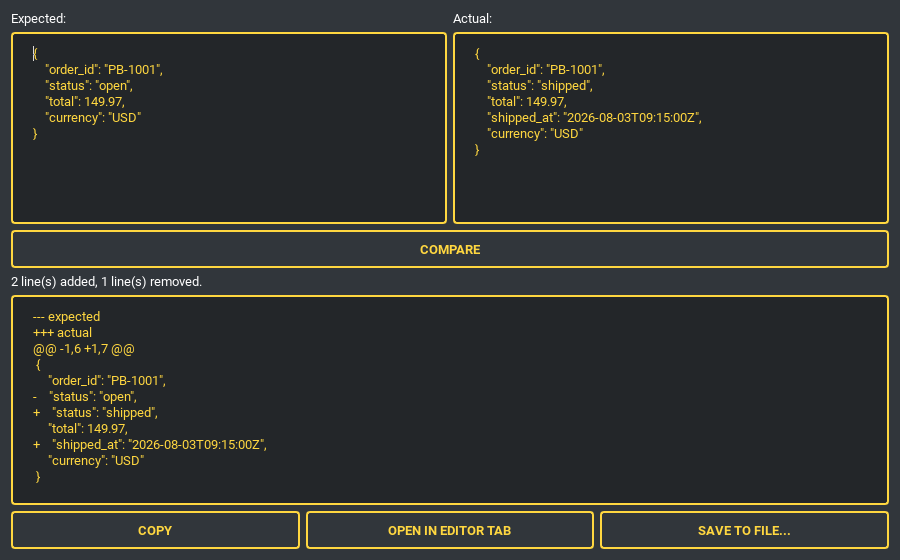
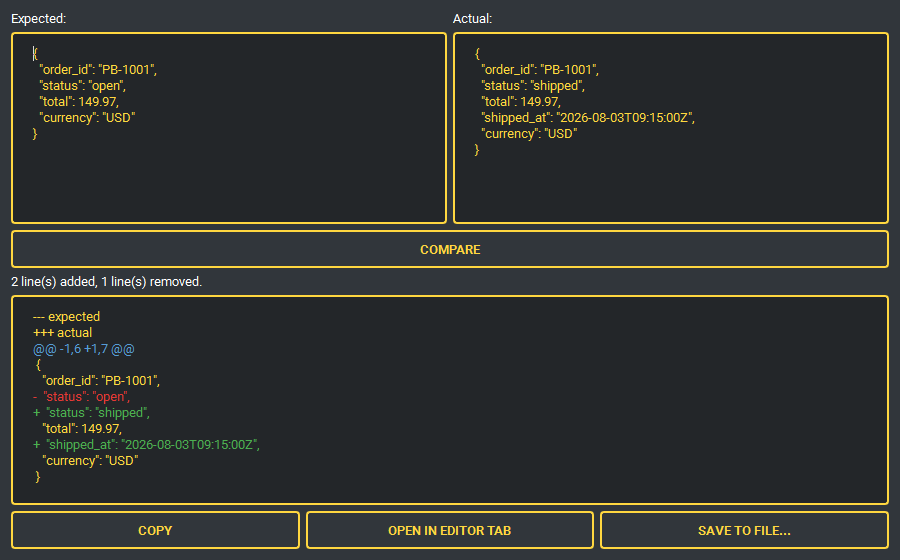
Colour the diff tool's added and removed lines

diff --git a/pybreeze/pybreeze_ui/tools_gui/diff_gui.py b/pybreeze/pybreeze_ui/tools_gui/diff_gui.py
@@ -2,15 +2,51 @@
 from __future__ import annotations
 
 from PySide6.QtCore import QThread, Signal
+from PySide6.QtGui import QSyntaxHighlighter, QTextCharFormat
 from PySide6.QtWidgets import (
     QHBoxLayout, QLabel, QPushButton, QTextEdit, QVBoxLayout, QWidget
 )
 from je_editor import language_wrapper
+from je_editor.pyside_ui.main_ui.save_settings.user_color_setting_file import actually_color_dict
 
 from pybreeze.pybreeze_ui.exact_text import exact_text
 from pybreeze.pybreeze_ui.tools_gui.output_actions import OutputActions
 from pybreeze.pybreeze_ui.thread_keeper import let_run_out
 from pybreeze.utils.diff_tools.text_diff import Comparison, DiffSummary, compare_texts
+
+# A unified diff line's first characters -> JEditor theme colour (a dark and a
+# light set, which the Style menu switches between); the first match counts
+_LINE_COLOURS = (
+    ("@@", "syntax_keyword_color"),
+    ("+", "diff_added_marker_color"),
+    ("-", "diff_removed_marker_color"),
+    ("\\", "blame_annotation_color"),  # "\ No newline at end of file"
+)
+# The "--- expected" and "+++ actual" lines a diff starts with
+_HEADER_LINES = 2
+
+
+def diff_line_colour(line: str, line_number: int) -> str | None:
+    """The theme colour key *line* of a unified diff is shown in, or ``None`` for the view's own.
+
+    Only the first two lines are the header: a removed line reading ``--x``
+    also starts with ``---``.
+    """
+    if line_number < _HEADER_LINES and line.startswith(("--- ", "+++ ")):
+        return None
+    return next((key for prefix, key in _LINE_COLOURS if line.startswith(prefix)), None)
+
+
+class UnifiedDiffHighlighter(QSyntaxHighlighter):
+    """Colours a unified diff's added, removed and hunk lines, in the theme's colours."""
+
+    def highlightBlock(self, text: str) -> None:
+        key = diff_line_colour(text, self.currentBlock().blockNumber())
+        colour = actually_color_dict.get(key) if key is not None else None
+        if colour is not None:
+            text_format = QTextCharFormat()
+            text_format.setForeground(colour)
+            self.setFormat(0, len(text), text_format)
 
 
 def build_summary_line(summary: DiffSummary) -> str:
@@ -72,6 +108,7 @@ class DiffGUI(QWidget):
         self.summary_label = QLabel("")
         self.output_edit = QTextEdit()
         self.output_edit.setReadOnly(True)
+        self._highlighter = UnifiedDiffHighlighter(self.output_edit.document())
 
         self.actions = OutputActions(
             self, self.output_edit, main_window=main_window,

diff --git a/test/test_utils/test_diff_gui.py b/test/test_utils/test_diff_gui.py
@@ -114,3 +114,40 @@ class TestALargeComparison:
         release.set()
         _compare(widget, start=False)
         assert "+b" in widget.output_edit.toPlainText()
+
+
+class TestTheColours:
+    @pytest.mark.parametrize(("line", "number", "key"), [
+        ("--- expected", 0, None),
+        ("+++ actual", 1, None),
+        ("@@ -1,2 +1,2 @@", 2, "syntax_keyword_color"),
+        ("+added", 5, "diff_added_marker_color"),
+        ("-removed", 5, "diff_removed_marker_color"),
+        ("---x", 7, "diff_removed_marker_color"),  # a removed "--x", not a header
+        ("+++x", 7, "diff_added_marker_color"),
+        (" unchanged", 5, None),
+        ("\\ No newline at end of file", 6, "blame_annotation_color"),
+        ("", 5, None),
+    ])
+    def test_each_kind_of_line_has_its_theme_colour(self, line, number, key):
+        from pybreeze.pybreeze_ui.tools_gui.diff_gui import diff_line_colour
+
+        assert diff_line_colour(line, number) == key
+
+    def test_the_diff_is_shown_in_colour(self, widget):
+        # It was all one colour: added and removed lines had to be read by their sign
+        from je_editor.pyside_ui.main_ui.save_settings.user_color_setting_file import actually_color_dict
+
+        widget.left_edit.setPlainText("a\nb")
+        widget.right_edit.setPlainText("a\nc")
+        _compare(widget)
+
+        colours = {}
+        block = widget.output_edit.document().begin()
+        while block.isValid():
+            ranges = block.layout().formats()
+            colours[block.text()] = ranges[0].format.foreground().color() if ranges else None
+            block = block.next()
+        assert colours["-b"] == actually_color_dict["diff_removed_marker_color"]
+        assert colours["+c"] == actually_color_dict["diff_added_marker_color"]
+        assert colours[" a"] is None

diff --git a/test/test_utils/test_jeditor_contract.py b/test/test_utils/test_jeditor_contract.py
@@ -43,7 +43,7 @@ INTERNAL = [
     ("je_editor.utils.encodings.text_codec", "LINE_ENDING_LF",
      "menu/plugin_menu/build_run_with_menu.py"),
     ("je_editor.pyside_ui.main_ui.save_settings.user_color_setting_file", "actually_color_dict",
-     "show_code_window/code_window.py, auto_control_menu/build_autocontrol_menu.py"),
+     "show_code_window/code_window.py, auto_control_menu/build_autocontrol_menu.py, tools_gui/diff_gui.py"),
 ]
 
 # Names PyBreeze imports from je_editor's top level, i.e. from its __all__.
@@ -113,6 +113,9 @@ class TestTheShapesPyBreezeCalls:
             "je_editor.pyside_ui.main_ui.save_settings.user_color_setting_file",
             "actually_color_dict")
         assert {"normal_output_color", "error_output_color"} <= set(colours)
+        # The diff tool's line colours
+        assert {"diff_added_marker_color", "diff_removed_marker_color", "syntax_keyword_color",
+                "blame_annotation_color"} <= set(colours)
 
     def test_a_keyword_colour_can_be_a_theme_colour_key(self):
         # syntax_extend registers keys, not colours, so keywords follow the theme

diff --git a/docs/updates/2026-09-b.md b/docs/updates/2026-09-b.md
@@ -869,3 +869,14 @@ Continues [2026-09.md](2026-09.md), which passed the batch size limit. Index and
 - **Docs**: `architecture.md` §6 (the reliance on JEditor), `architecture_explore.md` (§11, test count).
 - **Files**: `pybreeze/pybreeze_ui/syntax/syntax_extend.py`, `test/test_utils/test_syntax_extend.py`, `test/test_utils/test_jeditor_contract.py`, `architecture.md`, `architecture_explore.md`
 - **Open items**: none.
+
+## U-20260924-296 · 2026-09-24 · The diff tool shows its diff in colour · #feature #ui
+
+- **What**: the Text Diff tab printed its unified diff in one colour; added and removed lines could be told apart only by their first character. Seen on the dark_amber contact sheet of all 20 tool tabs (the rest read fine under the theme).
+- **Change**: `diff_gui.UnifiedDiffHighlighter` (a `QSyntaxHighlighter` on the output) colours a line by its start: `@@` hunks `syntax_keyword_color`, `+` `diff_added_marker_color`, `-` `diff_removed_marker_color`, the `\ No newline at end of file` note `blame_annotation_color`, all JEditor theme colours with a dark and a light set (`actually_color_dict`, already used by the run window). `diff_line_colour(line, number)` decides; the `--- expected` / `+++ actual` header is only the first two lines, since a removed `--x` also starts with `---`. Copy and Save still take the plain text. Highlighting an 18,000-line diff adds 0.14 s to showing it.
+- **Check**: rendered on dark_amber and light_blue: readable on both.
+- **Tests**: `test_diff_gui.py` +11 (each kind of line, including `---x` and `+++x` past the header; the widget shows `-b` and `+c` in the removed and added colours and context in none), `test_jeditor_contract.py` (the four colour keys are in `actually_color_dict`; `diff_gui.py` listed as a user).
+- **Result / numbers**: 2386 tests in 130 files. The diff and contract tests (57) pass. `ruff check` clean.
+- **Docs**: the three READMEs' Text Diff section and its screenshot `images/tool_diff.png` (same sample and size, now in colour), `architecture.md` §6 (`actually_color_dict` users), `architecture_explore.md` (diff tool, test count).
+- **Files**: `pybreeze/pybreeze_ui/tools_gui/diff_gui.py`, `test/test_utils/test_diff_gui.py`, `test/test_utils/test_jeditor_contract.py`, `images/tool_diff.png`, `README.md`, `README/README_zh-TW.md`, `README/README_zh-CN.md`, `architecture.md`, `architecture_explore.md`
+- **Open items**: none.

diff --git a/architecture.md b/architecture.md
@@ -143,7 +143,7 @@ Run with… / Plugins menu (menu/plugin_menu/) → get_all_plugin_run_configs()
   | `choose_file_get_save_file_path` | `pyside_ui.dialog.file_dialog.save_file_dialog` | `menu/plugin_menu/build_run_with_menu.py` |
   | `write_file_with_encoding` | `utils.file.save.save_file` | `menu/plugin_menu/build_run_with_menu.py` |
   | `DEFAULT_ENCODING`, `LINE_ENDING_LF` | `utils.encodings.text_codec` | `menu/plugin_menu/build_run_with_menu.py` |
-  | `actually_color_dict` | `pyside_ui.main_ui.save_settings.user_color_setting_file` | `show_code_window/code_window.py`, `automation_menu/auto_control_menu/build_autocontrol_menu.py` |
+  | `actually_color_dict` | `pyside_ui.main_ui.save_settings.user_color_setting_file` | `show_code_window/code_window.py`, `automation_menu/auto_control_menu/build_autocontrol_menu.py`, `tools_gui/diff_gui.py` (the diff's line colours: `diff_added_marker_color`, `diff_removed_marker_color`, `syntax_keyword_color`, `blame_annotation_color`) |
 
   PyBreeze also relies on `EditorWidget`'s `current_file`, `code_edit`, `file_encoding`,
   `line_ending`, `mark_ignore_next_file_change()` and `mark_saved()`, on its private `_file_watcher`,

diff --git a/docs/updates/README.md b/docs/updates/README.md
@@ -58,6 +58,7 @@ In the same commit: delete the item from `progress.md`, add a `#done` entry here
 
 | ID | Date | Title | Tags | Batch |
 |---|---|---|---|---|
+| U-20260924-296 | 2026-09-24 | The diff tool shows its diff in colour | #feature #ui | [2026-09-b](2026-09-b.md) |
 | U-20260924-295 | 2026-09-24 | Automation keywords readable on a light theme | #fix #ui #jeditor | [2026-09-b](2026-09-b.md) |
 | U-20260924-294 | 2026-09-24 | The terminal font holds under the IDE's theme | #fix #ssh #ui | [2026-09-b](2026-09-b.md) |
 | U-20260924-293 | 2026-09-24 | Terminal colours readable on a dark and on a light theme | #fix #ssh #ui | [2026-09-b](2026-09-b.md) |
@@ -377,4 +378,4 @@ In the same commit: delete the item from `progress.md`, add a `#done` entry here
 | File | Period | Entries |
 |---|---|---:|
 | [2026-09.md](2026-09.md) | 2026-09 | 218 |
-| [2026-09-b.md](2026-09-b.md) | 2026-09 | 93 |
+| [2026-09-b.md](2026-09-b.md) | 2026-09 | 94 |

diff --git a/README.md b/README.md
@@ -117,7 +117,7 @@ Reports names sent more than once, `Set-Cookie` entries missing `Secure` / `Http
 
 ![Text Diff](images/tool_diff.png)
 
-Compare two payloads — an expected vs. actual API response, say — and get a unified diff plus a one-line added/removed summary.
+Compare two payloads — an expected vs. actual API response, say — and get a unified diff, its added and removed lines in the theme's colours, plus a one-line added/removed summary.
 
 ### The everyday utilities
 

diff --git a/README/README_zh-CN.md b/README/README_zh-CN.md
@@ -117,7 +117,7 @@ PyBreeze 开箱即用，涵盖自动化测试的完整范围：
 
 ![文本比较](../images/tool_diff.png)
 
-比较两份数据——例如预期与实际的 API 响应——得到 unified diff，以及一行新增／删除的摘要。
+比较两份数据——例如预期与实际的 API 响应——得到 unified diff（新增与删除的行以主题的颜色标示），以及一行新增／删除的摘要。
 
 ### 日常小工具
 

diff --git a/README/README_zh-TW.md b/README/README_zh-TW.md
@@ -117,7 +117,7 @@ PyBreeze 開箱即用，涵蓋自動化測試的完整範疇：
 
 ![文字比對](../images/tool_diff.png)
 
-比較兩段內容——例如預期與實際的 API 回應——得到 unified diff，以及一行新增／刪除摘要。
+比較兩段內容——例如預期與實際的 API 回應——得到 unified diff（新增與刪除的行以主題的顏色標示），以及一行新增／刪除摘要。
 
 ### 日常小工具
 
